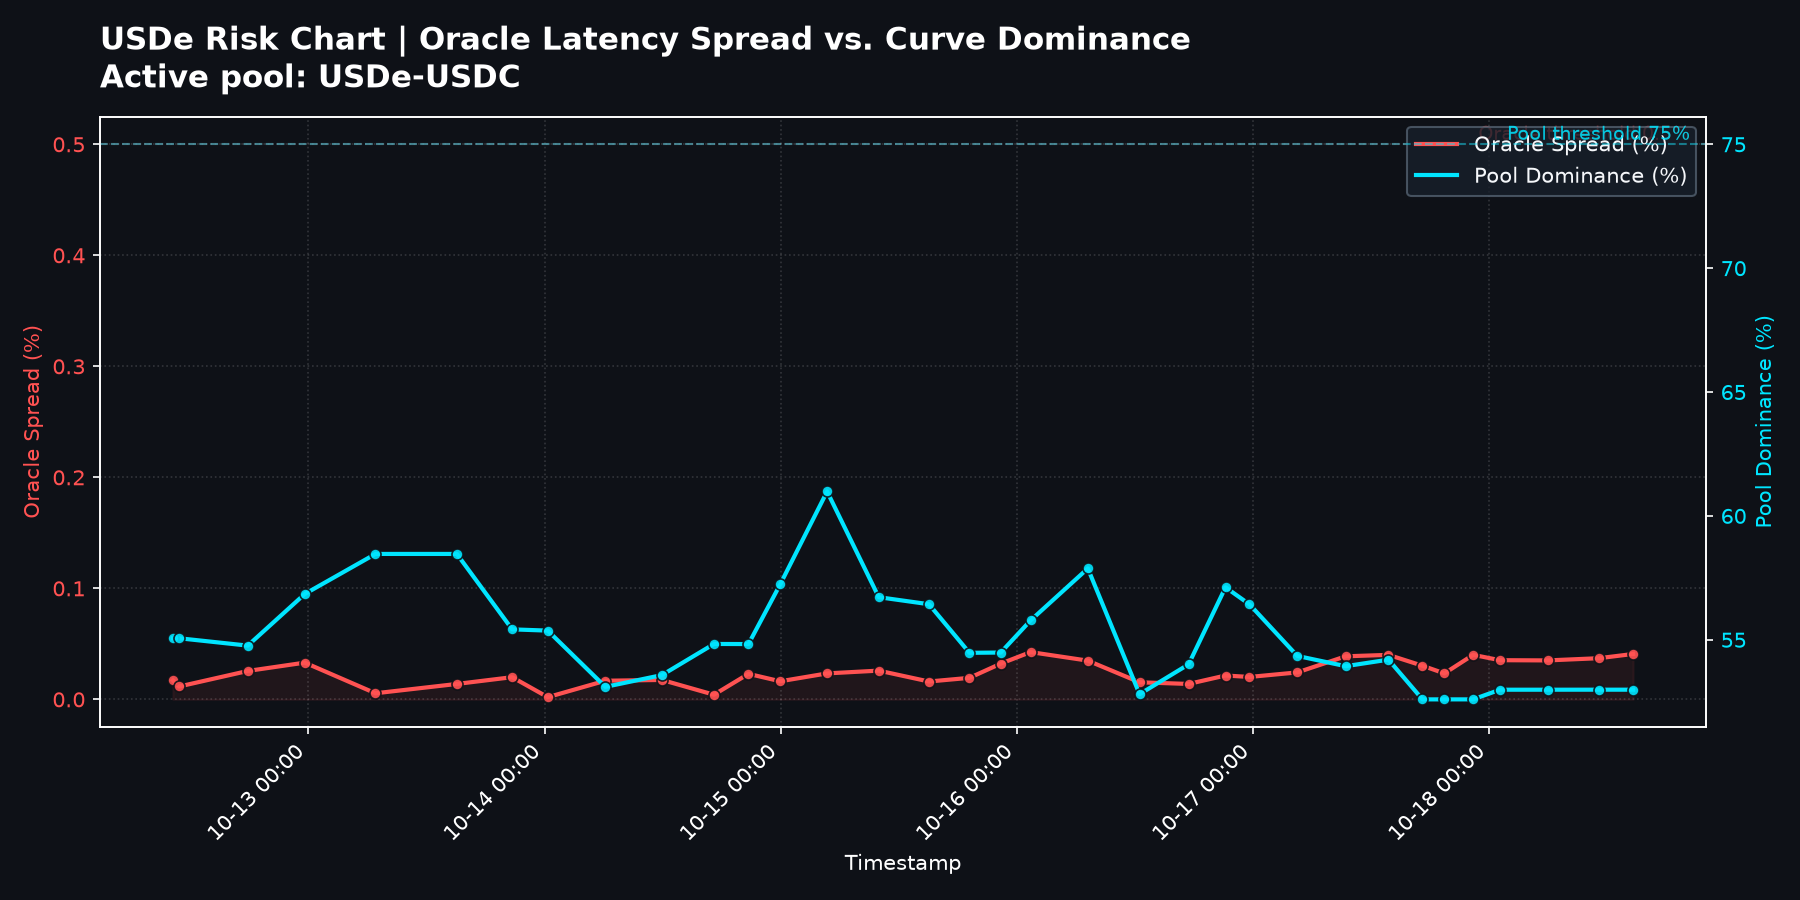
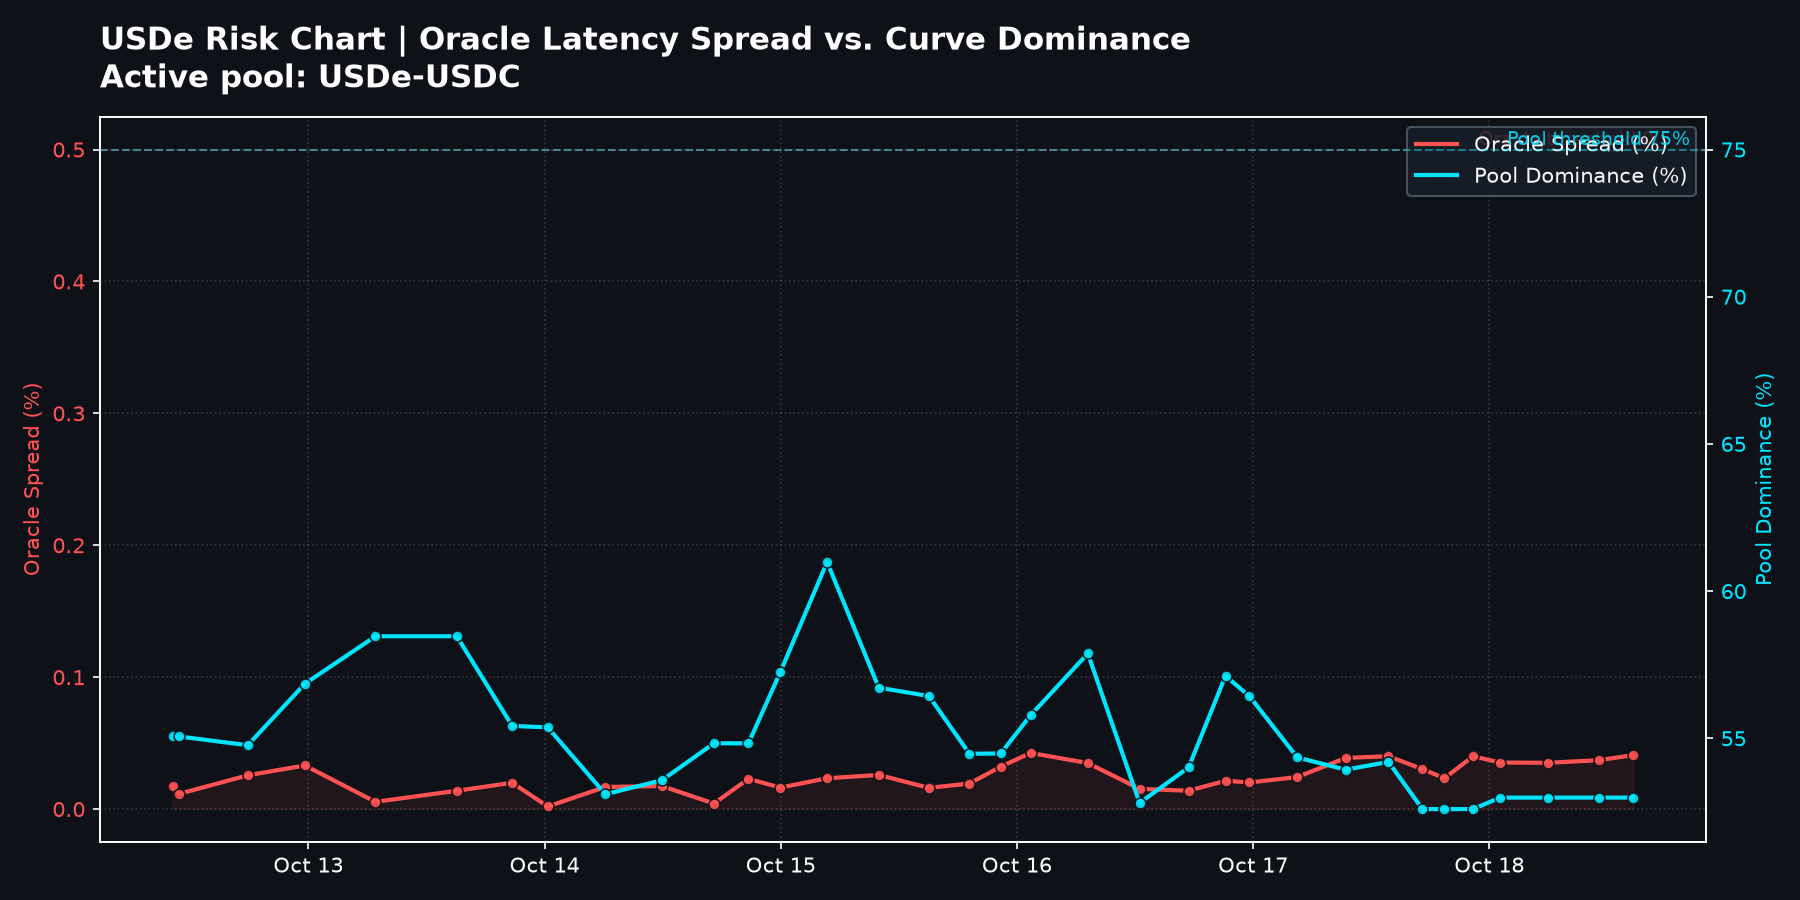
style(chart): remove timestamp label and format x-axis with clean calendar dates

diff --git a/scripts/chart_history.py b/scripts/chart_history.py
@@ -139,7 +139,6 @@ def plot_usde_history(data: pd.DataFrame, output_path: Path) -> None:
         fontweight="bold",
         pad=14,
     )
-    ax1.set_xlabel("Timestamp")
     ax1.set_ylabel("Oracle Spread (%)", color=ORACLE_COLOR)
     ax2.set_ylabel("Pool Dominance (%)", color=DOMINANCE_COLOR)
     ax1.tick_params(axis="y", labelcolor=ORACLE_COLOR)
@@ -148,14 +147,14 @@ def plot_usde_history(data: pd.DataFrame, output_path: Path) -> None:
     ax2.grid(False)
 
     if len(data) == 1:
-        timestamp = pd.Timestamp(data["Timestamp"].iloc[0])
+        single_date = pd.Timestamp(data["Timestamp"].iloc[0])
         ax1.set_xlim(
-            timestamp - timedelta(hours=6),
-            timestamp + timedelta(hours=6),
+            single_date - timedelta(days=1),
+            single_date + timedelta(days=1),
         )
 
-    ax1.xaxis.set_major_formatter(mdates.DateFormatter("%m-%d %H:%M"))
-    fig.autofmt_xdate(rotation=45)
+    ax1.xaxis.set_major_formatter(mdates.DateFormatter("%b %d"))
+    fig.autofmt_xdate(rotation=0, ha="center")
 
     ax1.text(
         0.99,
